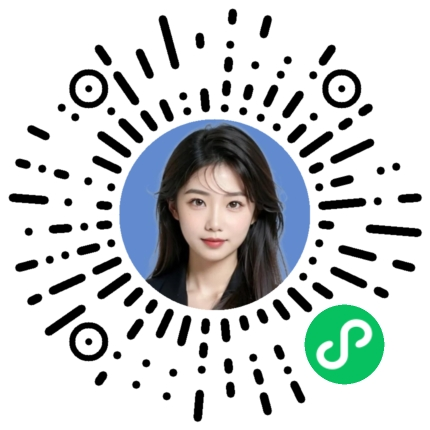
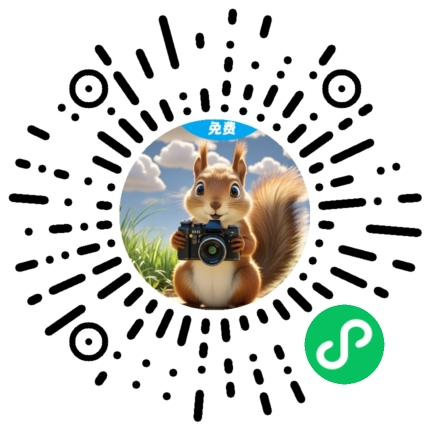
小程序码切换

Changed region(s): [[0.2721, 0.2721, 0.7256, 0.7256]]

diff --git a/README.md b/README.md
@@ -5,7 +5,7 @@
 <p align="center"><img src="./src/assets/images/app_code_image.jpg"></p>
 
 
-# <p align="center">《最美AI证件照》</p>
+# <p align="center">《松鼠证件照》</p>
 <br>
 <br>
 <p align="center"><img src="./src/assets/images/app_screenshot.png"></p>
